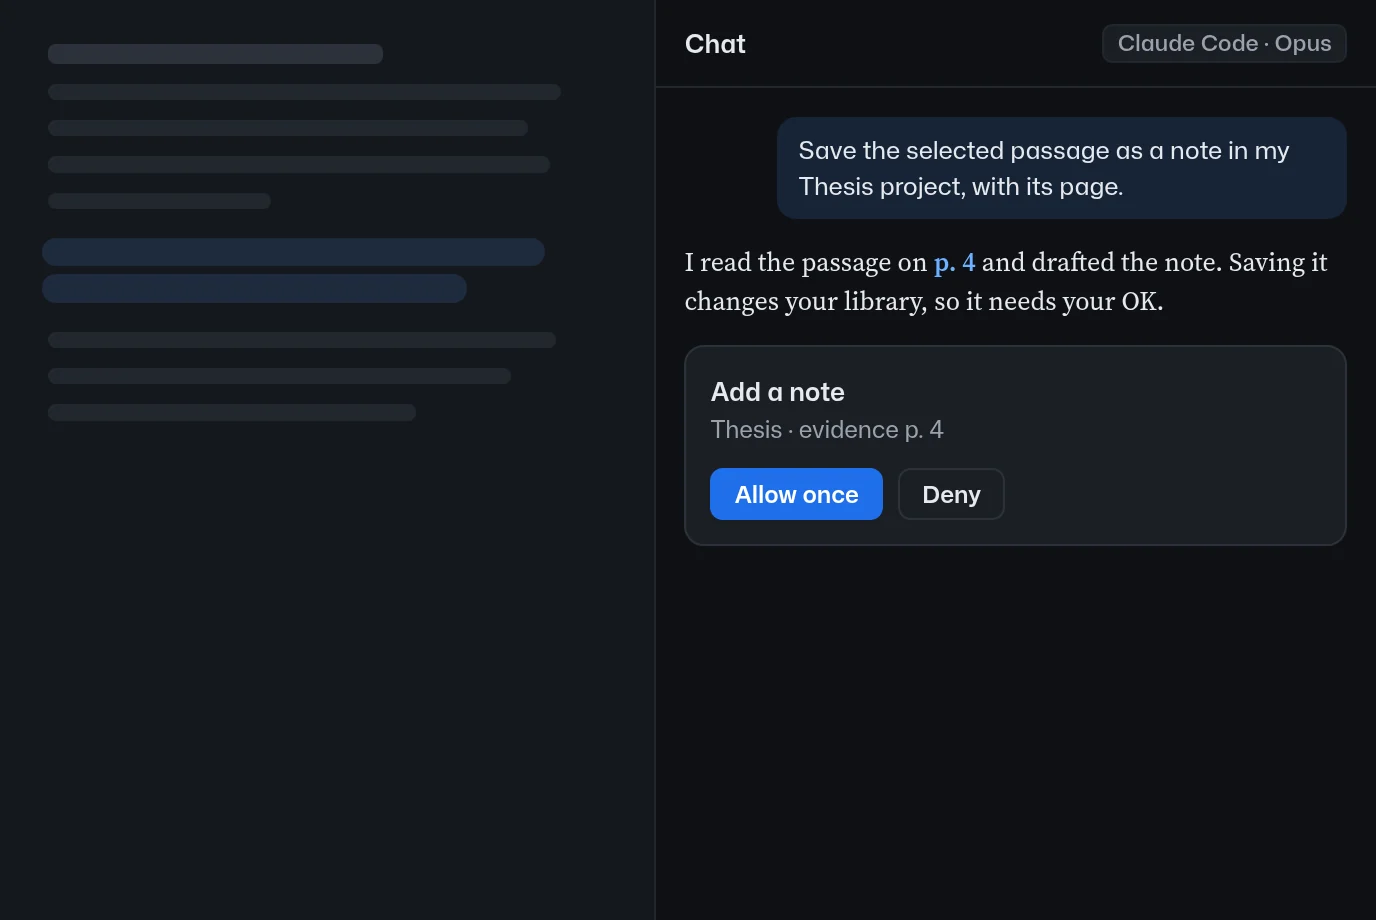
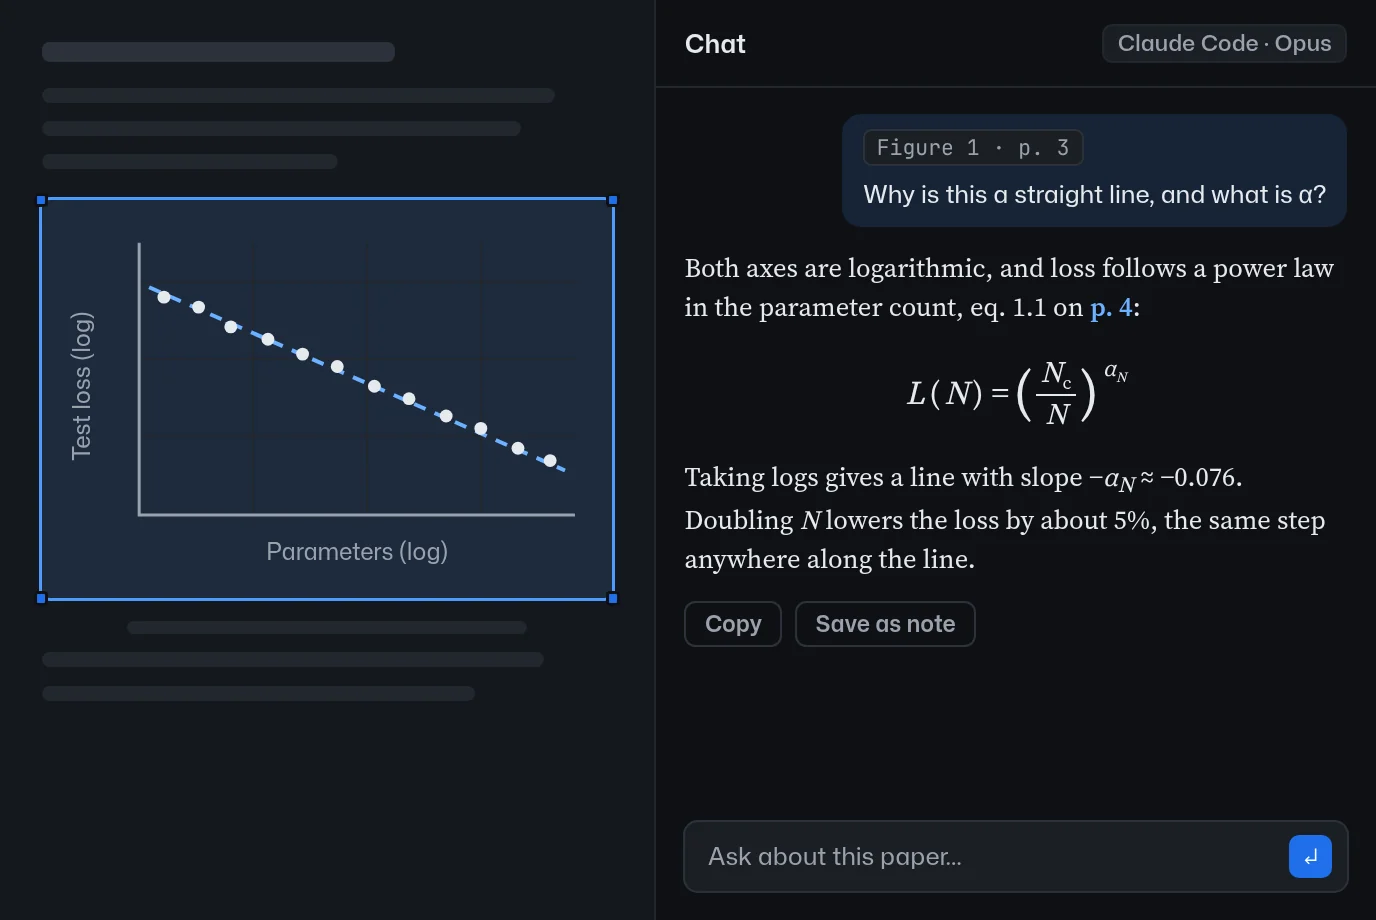
Show the agent explaining a plot and its equation
The chat picture now has a clipped log-log plot from Scaling Laws for
Neural Language Models and Claude's answer: why a power law is a straight
line, eq. 1.1 rendered as math, and what the slope means, citing pages.
The README's copy of the picture is rendered from it.

Claude-Session: https://claude.ai/code/session_01Gm4vuQhFL87nKjhSHYmEaZ

diff --git a/style.css b/style.css
@@ -97,23 +97,39 @@ kbd { flex: none; min-width: 24px; height: 22px; padding: 0 6px; border-radius: 
 
 /* The chat illustration, drawn at 688 wide and scaled with the frame */
 .chat { position: absolute; inset: 0; display: flex; font-size: calc(1.8895cqw); background: var(--side); }
-.chat .page { flex: 1; display: flex; flex-direction: column; gap: 0.77em; padding: 1.7em 1.85em; border-right: 1px solid var(--line-soft); }
-.chat .page span { height: 0.62em; border-radius: 0.3em; background: var(--line-soft); }
-.chat .page span.head { height: 0.77em; width: 60%; background: var(--line); }
-.chat .page span.hl { background: var(--sel); box-shadow: 0 0 0 0.23em var(--sel); }
+.chat .page { flex: 1; min-width: 0; display: flex; flex-direction: column; gap: 0.7em; padding: 1.6em 1.6em; border-right: 1px solid var(--line-soft); }
+.chat .page > span { height: 0.58em; border-radius: 0.3em; background: var(--line-soft); }
+.chat .page > span.head { height: 0.77em; width: 62%; background: var(--line); margin-bottom: 0.3em; }
+.chat .page > span.caption { height: 0.5em; width: 70%; align-self: center; }
+.chat .figure { position: relative; margin: 0.5em 0 0.2em; padding: 0.5em; border-radius: 0.3em; background: var(--sel); outline: 1.5px solid var(--accent); }
+.chat .figure .corner { position: absolute; width: 0.55em; height: 0.55em; background: var(--accent-fill); border: 1.5px solid var(--bg); border-radius: 0.15em; }
+.chat .corner.tl { left: -0.3em; top: -0.3em; } .chat .corner.tr { right: -0.3em; top: -0.3em; }
+.chat .corner.bl { left: -0.3em; bottom: -0.3em; } .chat .corner.br { right: -0.3em; bottom: -0.3em; }
+.chat .plot { display: block; width: 100%; height: auto; }
+.chat .plot .grid path { stroke: var(--line-soft); stroke-width: 0.8; fill: none; }
+.chat .plot .axis { stroke: var(--muted); stroke-width: 1.2; fill: none; }
+.chat .plot .fit { stroke: var(--accent-text); stroke-width: 1.6; stroke-dasharray: 5 4; fill: none; }
+.chat .plot .dots circle { fill: var(--text); }
+.chat .plot text { font: 9.5px var(--sans); fill: var(--muted); text-anchor: middle; }
 .chat .pane { width: 27.7em; flex: none; display: flex; flex-direction: column; background: var(--bg); }
-.chat .bar { height: 3.4em; display: flex; align-items: center; gap: 0.6em; padding: 0 1.1em; border-bottom: 1px solid var(--line-soft); font-weight: 600; }
+.chat .bar { height: 3.4em; flex: none; display: flex; align-items: center; gap: 0.6em; padding: 0 1.1em; border-bottom: 1px solid var(--line-soft); font-weight: 600; }
 .chat .model { margin-left: auto; height: 1.7em; padding: 0 0.6em; border-radius: 0.46em; background: var(--chip); border: 1px solid var(--line-soft); display: inline-flex; align-items: center; font-size: 0.88em; font-weight: 500; color: var(--muted); }
-.chat .thread { flex: 1; display: flex; flex-direction: column; gap: 0.92em; padding: 1.1em; }
-.chat .you { align-self: flex-end; max-width: 86%; padding: 0.6em 0.85em; border-radius: 0.77em; background: var(--sel); font-size: 0.96em; line-height: 1.45; }
-.chat .agent { font-family: var(--read); line-height: 1.5; }
+.chat .thread { flex: 1; display: flex; flex-direction: column; gap: 0.85em; padding: 1em 1.1em; }
+.chat .you { align-self: flex-end; max-width: 90%; display: flex; flex-direction: column; align-items: flex-start; gap: 0.45em; padding: 0.6em 0.85em; border-radius: 0.77em; background: var(--sel); font-size: 0.96em; line-height: 1.4; }
+.chat .clip { display: inline-flex; align-items: center; height: 1.7em; padding: 0 0.55em; border-radius: 0.4em; background: var(--raised); border: 1px solid var(--line); font: 0.86em var(--mono); color: var(--muted); }
+.chat .agent { display: flex; flex-direction: column; gap: 0.55em; font-family: var(--read); font-size: 1.02em; line-height: 1.48; }
+.chat .agent p { margin: 0; }
 .chat .agent b { color: var(--accent-text); font-weight: 600; }
-.chat .ask { display: flex; flex-direction: column; gap: 0.77em; padding: 0.92em; border-radius: 0.77em; border: 1px solid var(--line); background: var(--raised); }
-.chat .ask b { font-weight: 600; }
-.chat .ask small { display: block; font-size: 0.92em; color: var(--muted); }
-.chat .ask .buttons { display: flex; gap: 0.6em; }
-.chat .ask .buttons span { height: 2.15em; padding: 0 0.92em; border-radius: 0.54em; display: inline-flex; align-items: center; font-size: 0.92em; font-weight: 600; border: 1px solid var(--line); }
-.chat .ask .buttons span:first-child { background: var(--accent-fill); color: var(--on-accent); border-color: transparent; }
+.chat .math { align-self: center; display: flex; align-items: center; gap: 0.12em; padding: 0.35em 0; font-family: var(--read); font-size: 1.25em; }
+.chat .math sub { font-size: 0.62em; }
+.chat .math sup { font-size: 0.7em; align-self: flex-start; margin-top: -0.1em; }
+.chat .paren { font-size: 1.7em; font-weight: 300; line-height: 1; }
+.chat .frac { display: inline-flex; flex-direction: column; align-items: center; font-size: 0.9em; line-height: 1.2; }
+.chat .frac span:first-child { border-bottom: 1px solid currentColor; padding: 0 0.15em; }
+.chat .actions { display: flex; gap: 0.5em; }
+.chat .composer { flex: none; margin: 0 1.1em 1.1em; height: 2.9em; padding: 0 0.6em 0 0.9em; display: flex; align-items: center; border-radius: 0.6em; border: 1px solid var(--line); background: var(--raised); color: var(--muted); font-size: 0.96em; }
+.chat .composer span { margin-left: auto; width: 1.9em; height: 1.9em; border-radius: 0.45em; background: var(--accent-fill); color: var(--on-accent); display: inline-flex; align-items: center; justify-content: center; font-size: 0.9em; }
+.chat .actions span { height: 2em; padding: 0 0.8em; border-radius: 0.5em; border: 1px solid var(--line); display: inline-flex; align-items: center; font-size: 0.88em; font-weight: 600; color: var(--muted); }
 
 /* Keys */
 .keys { padding-top: 88px; padding-bottom: 40px; display: flex; flex-direction: column; gap: 24px; }

diff --git a/index.html b/index.html
@@ -139,14 +139,35 @@
           <article class="panel" role="tabpanel" id="panel-ask" aria-labelledby="tab-ask">
             <div class="frame">
               <div class="chat" aria-hidden="true">
-                <div class="page"><span class="head"></span><span style="width: 92%"></span><span style="width: 86%"></span><span style="width: 90%"></span><span style="width: 40%"></span><span class="hl" style="width: 88%; margin-top: 0.6em"></span><span class="hl" style="width: 74%"></span><span style="width: 91%; margin-top: 0.6em"></span><span style="width: 83%"></span><span style="width: 66%"></span></div>
+                <div class="page">
+                  <span class="head"></span>
+                  <span style="width: 90%"></span><span style="width: 84%"></span><span style="width: 52%"></span>
+                  <div class="figure">
+                    <svg class="plot" viewBox="0 0 220 150" aria-hidden="true">
+                      <g class="grid"><path d="M34 12v110M80 12v110M126 12v110M172 12v110M34 28h176M34 59h176M34 90h176"/></g>
+                      <path class="axis" d="M34 12v110h176"/>
+                      <path class="fit" d="M38 30 206 104"/>
+                      <g class="dots"><circle cx="44" cy="34" r="2.6"/><circle cx="58" cy="38" r="2.6"/><circle cx="71" cy="46" r="2.6"/><circle cx="86" cy="51" r="2.6"/><circle cx="100" cy="57" r="2.6"/><circle cx="114" cy="62" r="2.6"/><circle cx="129" cy="70" r="2.6"/><circle cx="143" cy="75" r="2.6"/><circle cx="158" cy="82" r="2.6"/><circle cx="172" cy="87" r="2.6"/><circle cx="187" cy="95" r="2.6"/><circle cx="200" cy="100" r="2.6"/></g>
+                      <text x="122" y="140">Parameters (log)</text>
+                      <text x="14" y="70" transform="rotate(-90 14 70)">Test loss (log)</text>
+                    </svg>
+                    <i class="corner tl"></i><i class="corner tr"></i><i class="corner bl"></i><i class="corner br"></i>
+                  </div>
+                  <span class="caption"></span>
+                  <span style="width: 88%"></span><span style="width: 76%"></span>
+                </div>
                 <div class="pane">
                   <div class="bar">Chat <span class="model">Claude Code · Opus</span></div>
                   <div class="thread">
-                    <div class="you">Save the selected passage as a note in my Thesis project, with its page.</div>
-                    <div class="agent">I read the passage on <b>p. 4</b> and drafted the note. Saving it changes your library, so it needs your OK.</div>
-                    <div class="ask"><span><b>Add a note</b><small>Thesis · evidence p. 4</small></span><span class="buttons"><span>Allow once</span><span>Deny</span></span></div>
+                    <div class="you"><span class="clip">Figure 1 · p. 3</span>Why is this a straight line, and what is α?</div>
+                    <div class="agent">
+                      <p>Both axes are logarithmic, and loss follows a power law in the parameter count, eq. 1.1 on <b>p. 4</b>:</p>
+                      <div class="math"><i>L</i>(<i>N</i>) = <span class="paren">(</span><span class="frac"><span><i>N</i><sub>c</sub></span><span><i>N</i></span></span><span class="paren">)</span><sup><i>α</i><sub><i>N</i></sub></sup></div>
+                      <p>Taking logs gives a line with slope −<i>α</i><sub><i>N</i></sub>&nbsp;≈ −0.076. Doubling <i>N</i> lowers the loss by about 5%, the same step anywhere along the line.</p>
+                    </div>
+                    <div class="actions"><span>Copy</span><span>Save as note</span></div>
                   </div>
+                  <div class="composer">Ask about this paper…<span>↵</span></div>
                 </div>
               </div>
             </div>
